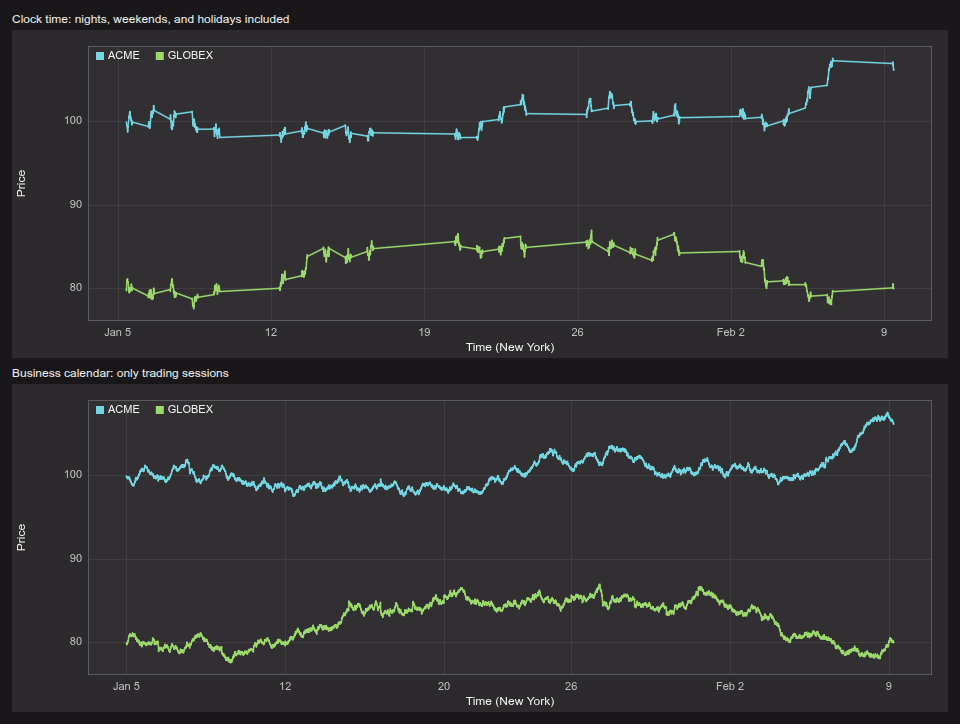
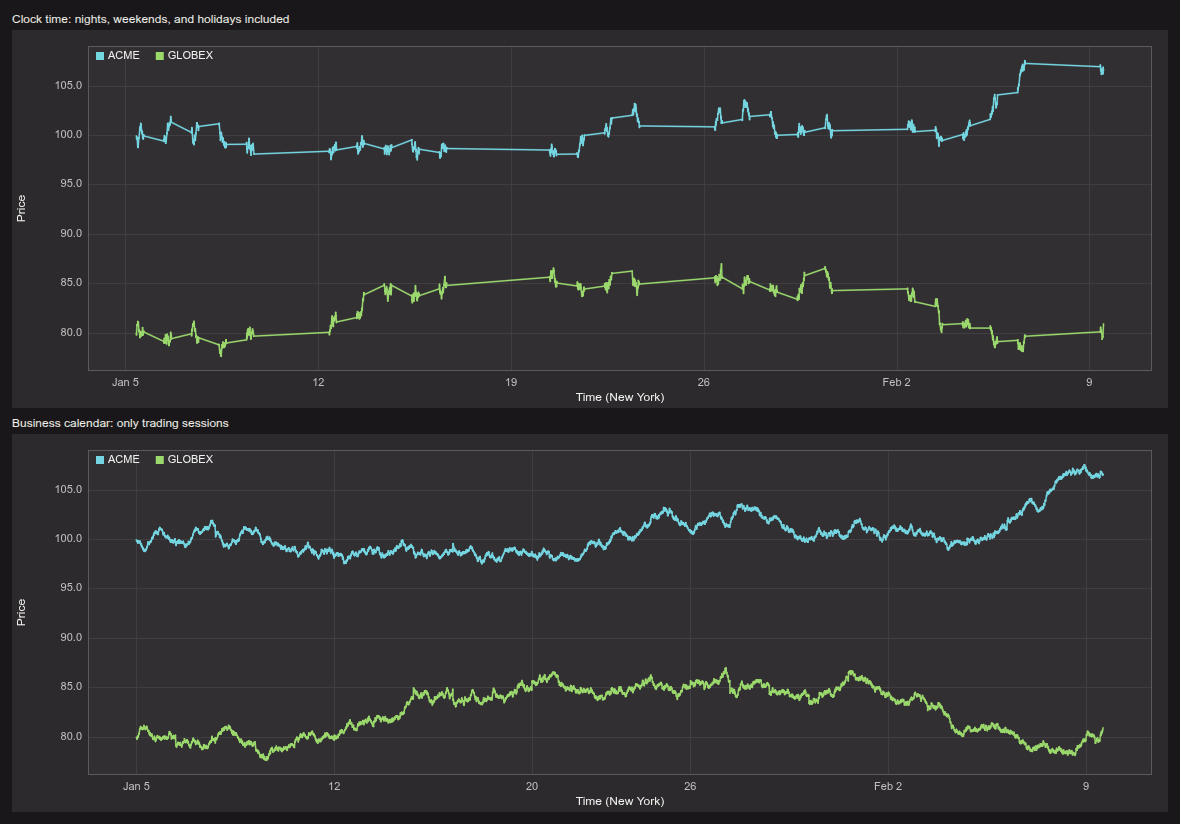
Show off business time and range breaks in the README
Removing nights, weekends, and holidays from a time axis is something
most plotting libraries cannot do, so it deserves more than a gallery
tile. Add a section with clock time and business time side by side, a
GIF of the ticks following the calendar as the view zooms from weeks to
a single session, and short TypeScript and Python examples.

The market hours capture is wider so its labels read at full width, and
its gallery tile is replaced with the 3D scatter so it is not shown
twice.

diff --git a/README.md b/README.md
@@ -94,6 +94,50 @@ explains how.
   <img src="packages/gigaplot/docs/images/downsampling-zoom.gif" width="720" alt="Zooming into a 20 million row table in Deephaven. Each zoom first scales up the coarse data, then fades in the detailed data from the server">
 </p>
 
+### Business time and range breaks
+
+Markets close, but most plotting libraries keep drawing the time in between,
+so nights, weekends, and holidays stretch across most of the axis as flat
+lines. gigaplot's scales take them out. A business calendar scale knows the
+time zone, the sessions of a day, including a lunch break, the business days,
+and the holidays, including half days, and follows daylight saving. Each close
+sits right beside the next open.
+
+![The same six weeks of ticking prices on a clock time axis, where nights, weekends, and a holiday are long flat lines, and on a business calendar axis, where only trading sessions remain](packages/gigaplot/docs/images/market-hours.png)
+
+The ticks follow the calendar too: round clock times within sessions when
+zoomed in, then the opens of days, weeks, and months as the view widens, spaced
+by business time so a weekend takes no room. Partway through the zoom below,
+Friday the 16th sits next to Tuesday the 20th, with the weekend and Martin Luther King Jr. Day gone.
+
+<p align="center">
+  <img src="packages/gigaplot/docs/images/business-time-zoom.gif" width="800" alt="Zooming into ticking prices on a business calendar axis. The ticks go from weeks to days to times within sessions, and each session's close runs straight into the next open">
+</p>
+
+For anything else, a range break scale removes the ranges you give it, from a
+list or from a function that generates them as the axis extends. Plots pan,
+zoom, and downsample in positions along the scale, so breaks hold up on tables
+of millions of rows, and the Deephaven plugin bins them by business time on the
+server.
+
+```tsx
+const nyse = createBusinessCalendarScale({
+  timeZone: "America/New_York",
+  sessions: [["09:30", "16:00"]],
+  holidays: ["2026-01-19"],
+});
+
+<Plot source={source} xScale={nyse} />;
+```
+
+```python
+gp.line(prices, x="Timestamp", y="Price", x_scale=gp.calendar_scale("USNYSE_EXAMPLE"))
+```
+
+See [scales](packages/gigaplot/docs/scales.md) for log, exponential, and power
+axes, and the
+[plugin's market hours examples](deephaven-plugin-gigaplot/README.md#market-hours-and-other-scales).
+
 ## Gallery
 
 From the [demo app](packages/gigaplot-demo), which runs with `npm start` and
@@ -130,8 +174,8 @@ needs no server.
   </tr>
   <tr>
     <td align="center" width="33%">
-      <img src="packages/gigaplot/docs/images/market-hours.png" alt="The same prices in clock time and on a business calendar"><br>
-      Market hours
+      <img src="packages/gigaplot/docs/images/scatter-3d.png" alt="Three clusters of points in 3D"><br>
+      Scatter 3D
     </td>
     <td align="center" width="33%">
       <img src="packages/gigaplot/docs/images/log-scale.png" alt="Growth on linear and log axes"><br>
